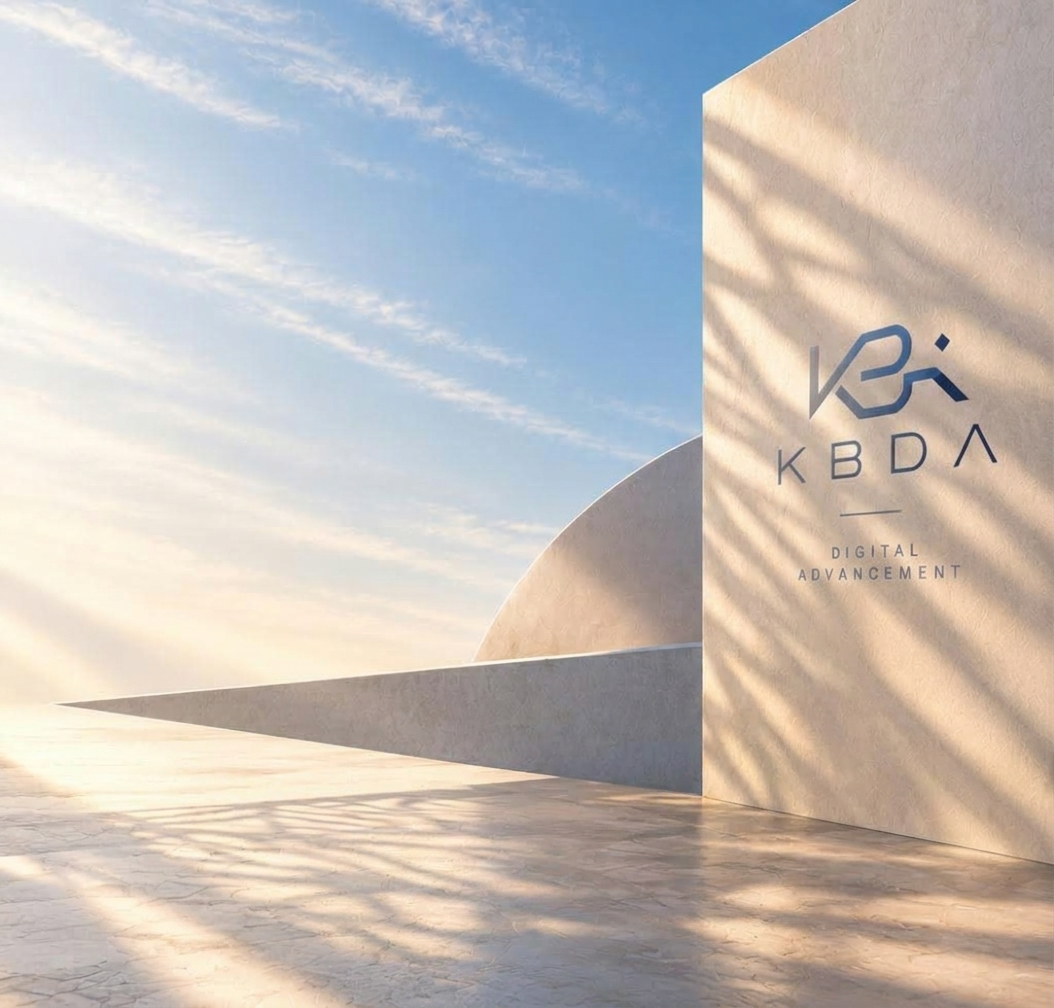
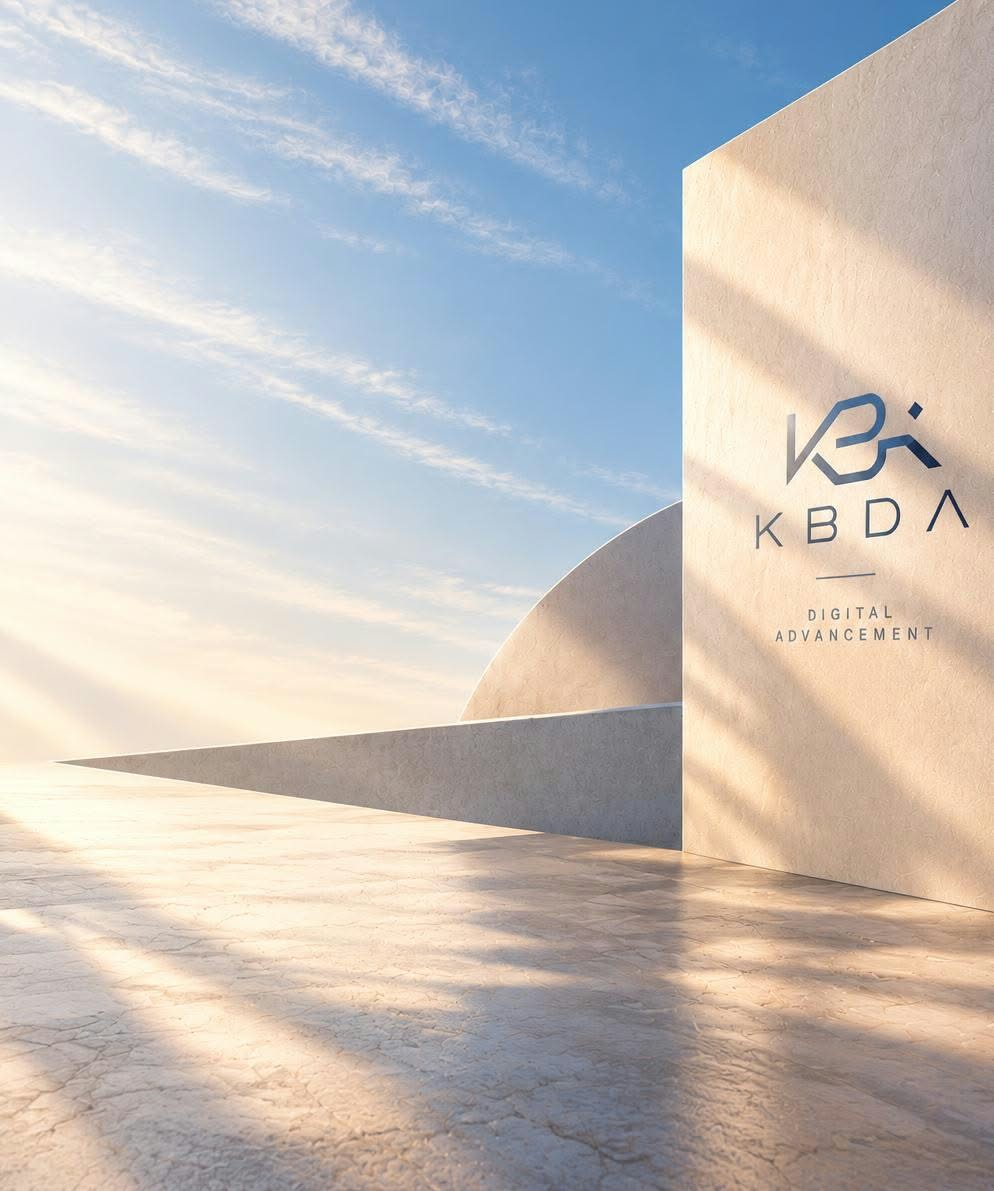
v2

diff --git a/css.css b/css.css
@@ -3330,15 +3330,46 @@ body { font-size: 15px; }
     }
 }
 
-/* =========================================================
-   AJUSTE DE IMAGEN COMPLETA PARA CELULARES
-   ========================================================= */
-
-@media (max-width: 768px) {
+/* 3. TABLETS VERTICALES Y PANTALLAS PLEGABLES (601px a 768px) */
+@media (max-width: 768px) and (min-width: 601px) {
     .hero {
+        background-image: url('kdba\ celuco.jpg'); 
         background-size: cover;
-        /* Ajusta el enfoque al 90% horizontal para mostrar la pared completa */
-        background-position: 90% center;
-        padding: 120px 20px 60px;
+        background-position: center center;
+        padding: 130px 24px 70px;
+        min-height: 85vh;
+    }
+}
+
+/* 4. CELULARES GRANDES / PRO MAX / PHABLETS (415px a 600px) */
+@media (max-width: 600px) and (min-width: 415px) {
+    .hero {
+        background-image: url('kdba\ celuco.jpg');
+        background-size: cover;
+        background-position: center center;
+        padding: 125px 20px 60px;
+        min-height: 82vh;
+    }
+}
+
+/* 5. CELULARES ESTÁNDAR Y DE PANTALLA ALTA (361px a 414px) */
+@media (max-width: 414px) and (min-width: 361px) {
+    .hero {
+        background-image: url('kdba\ celuco.jpg');
+        background-size: cover;
+        background-position: center center;
+        padding: 120px 18px 55px;
+        min-height: 80vh;
+    }
+}
+
+/* 6. CELULARES COMPACTOS Y PEQUEÑOS (Hasta 360px de ancho) */
+@media (max-width: 360px) {
+    .hero {
+        background-image: url('kdba\ celuco.jpg');
+        background-size: cover;
+        background-position: center center;
+        padding: 110px 15px 45px;
+        min-height: 75vh;
     }
 }
